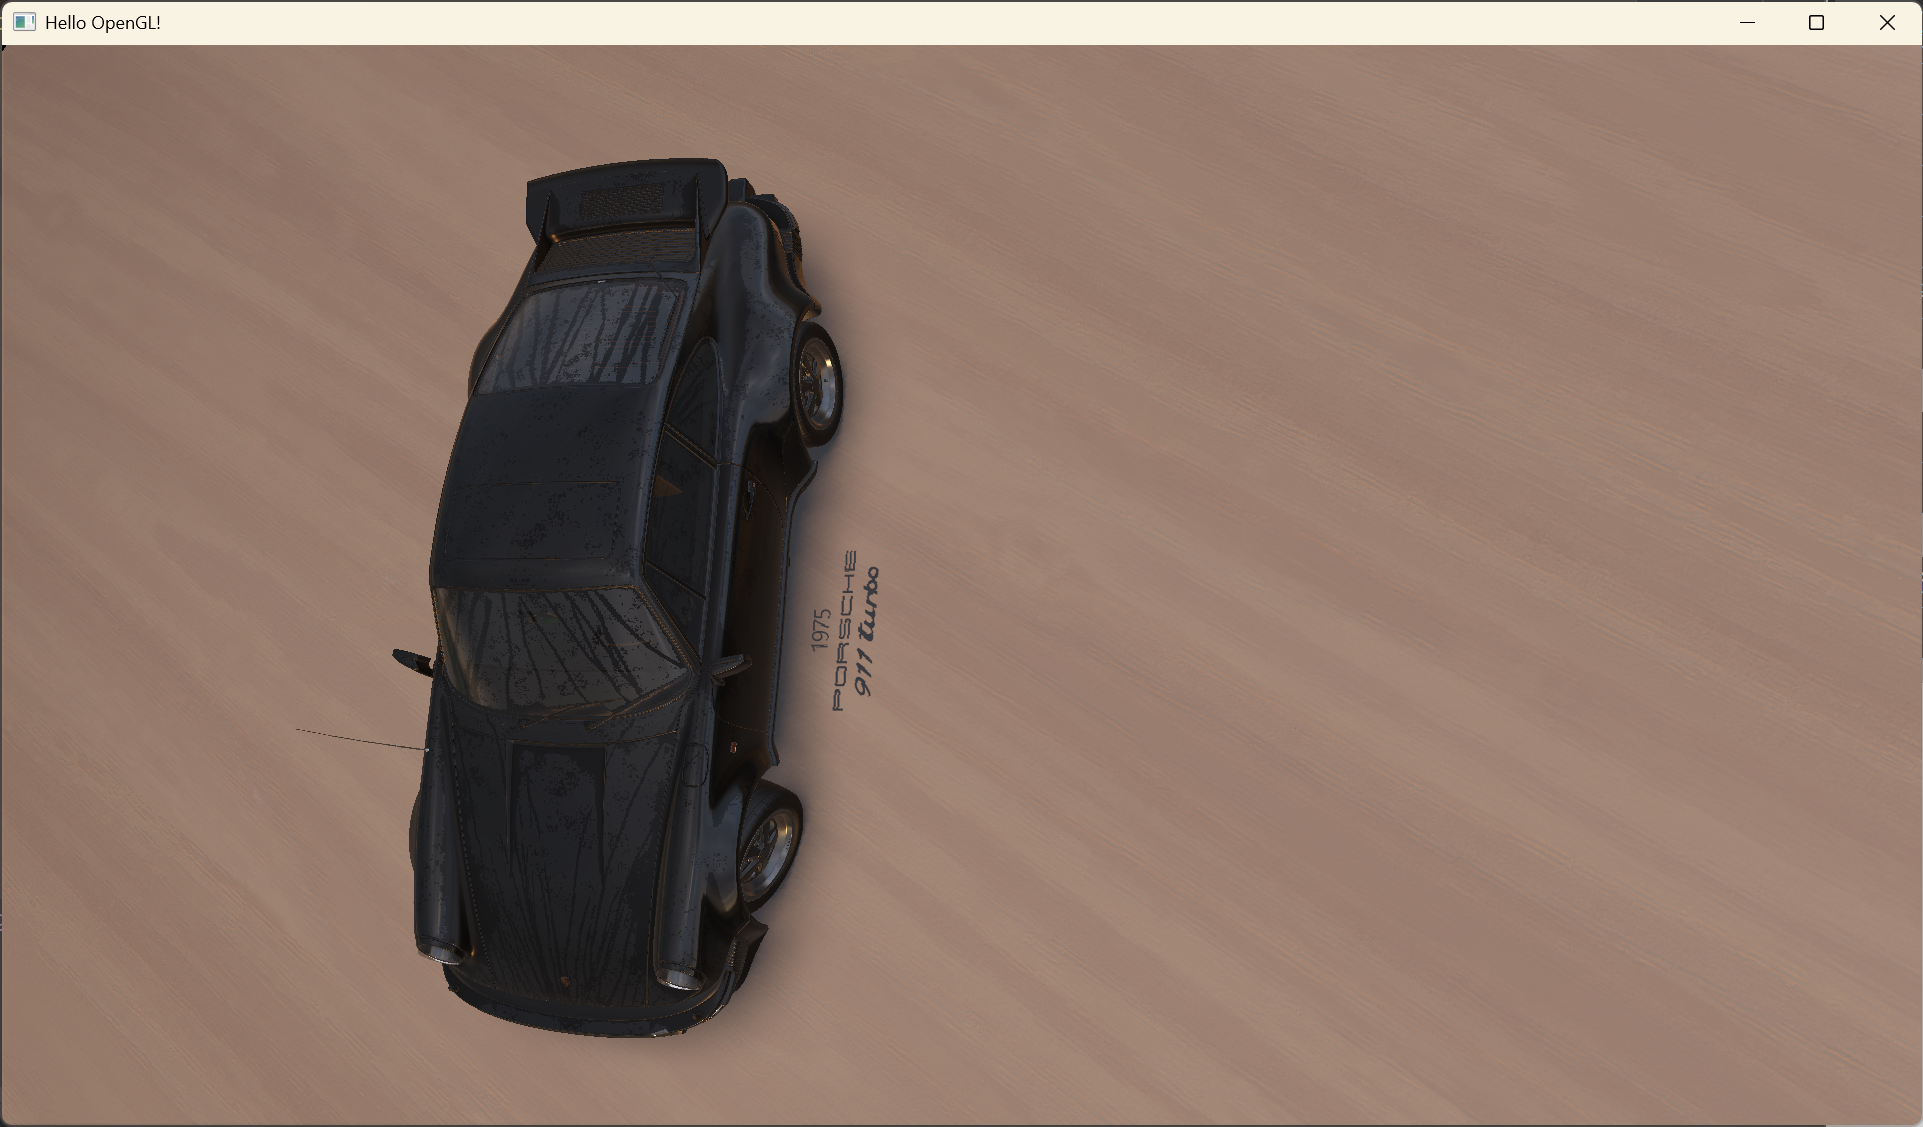
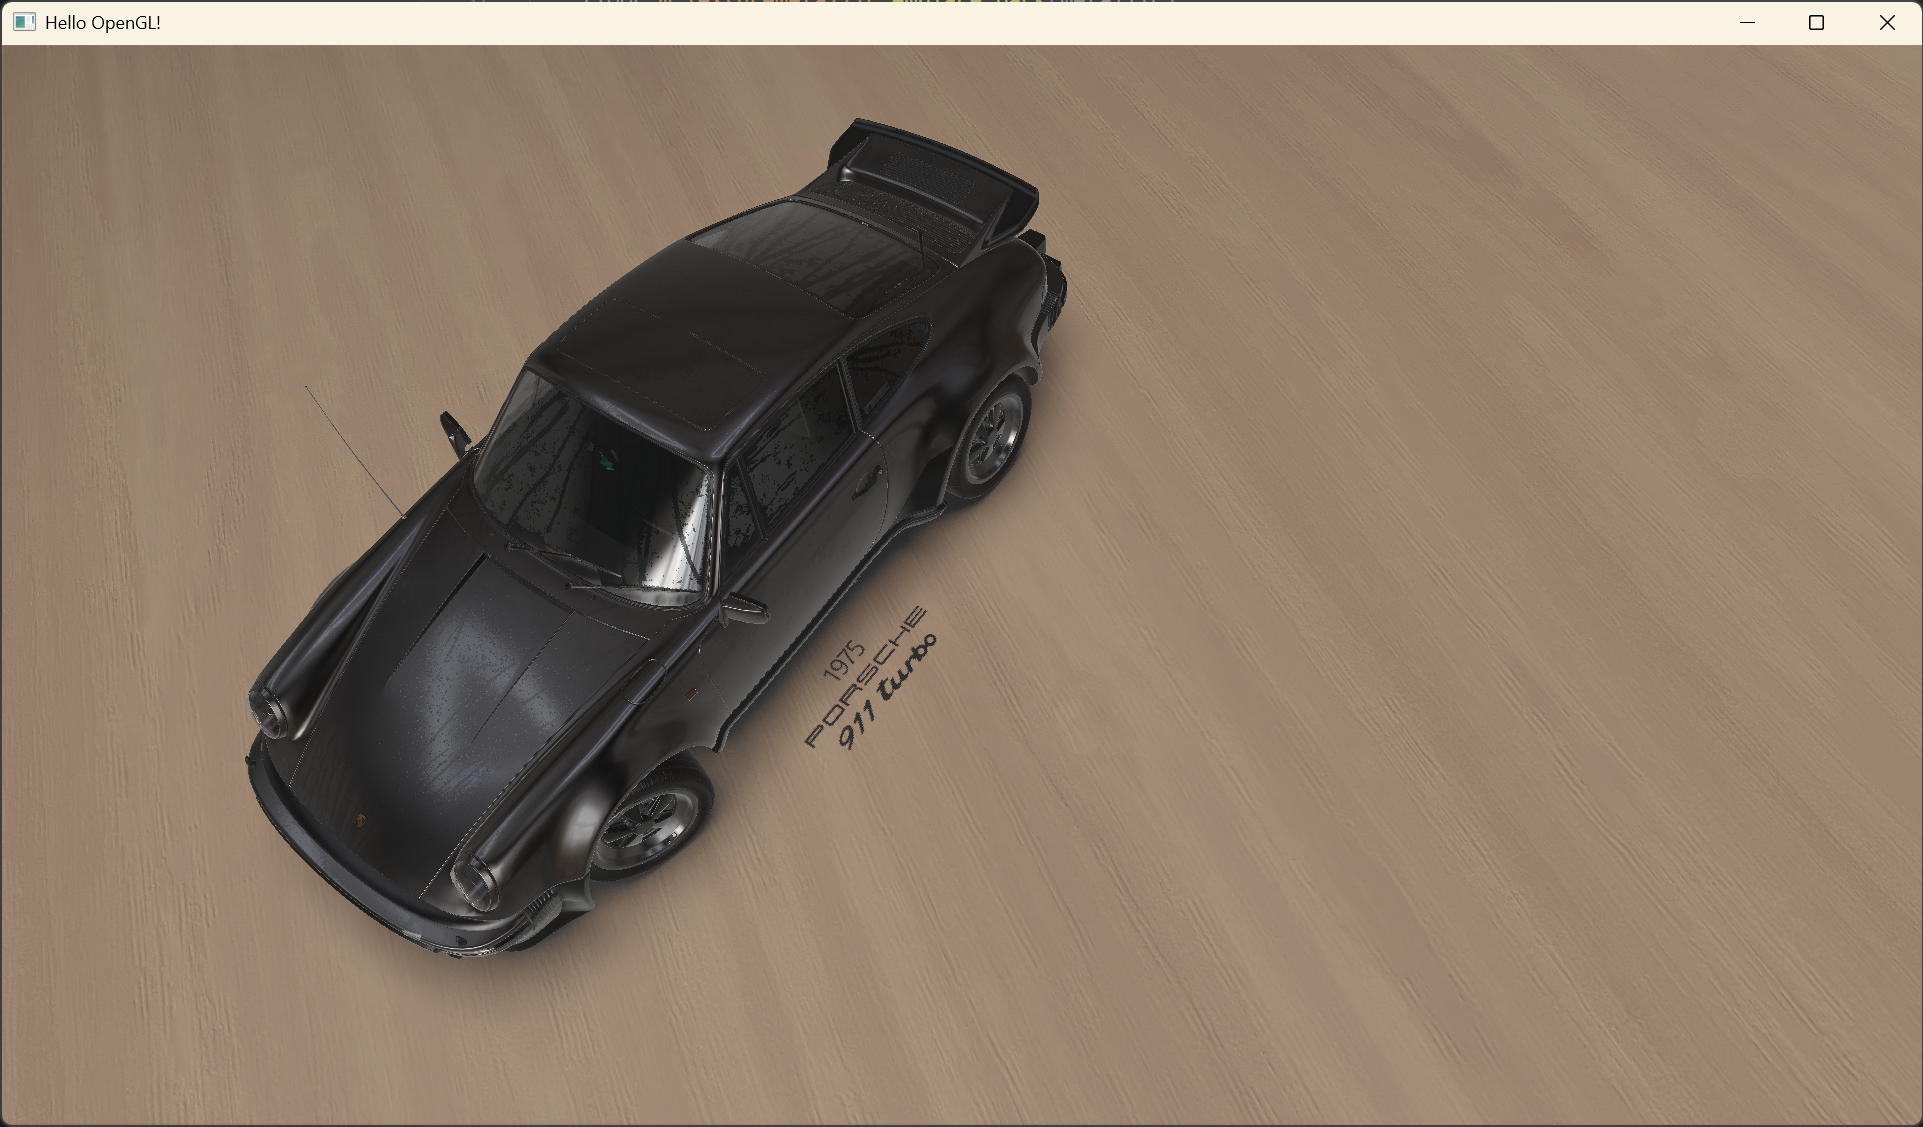
1. Fix bug: incorrect gamma correction. 2. Replace render result images.

diff --git a/OE_Engine/src/PBRFS.h b/OE_Engine/src/PBRFS.h
@@ -286,7 +286,7 @@ LightCombination calcSpotLight(vec3 albedo, float metallic, float roughness, vec
 }
 
 void main() {
-    vec4 albedoTex = texture(u_Material.albedo, v_TexCoord) * u_Material.albedoFactor;
+    vec4 albedoTex = vec4(pow(texture(u_Material.albedo, v_TexCoord).rgb, vec3(2.2)), texture(u_Material.albedo, v_TexCoord).a) * u_Material.albedoFactor;
     vec3 albedo = albedoTex.rgb;
     float alpha = albedoTex.a;
 
@@ -294,7 +294,7 @@ void main() {
     float roughness = (u_UseMRA ? texture(u_Material.roughness, v_TexCoord).g: texture(u_Material.roughness, v_TexCoord).r) * u_Material.roughnessFactor;
     float ao = texture(u_Material.AO, v_TexCoord).r;
     float transmission = texture(u_Material.transmission, v_TexCoord).r * u_Material.transmissionFactor;
-    vec3 emissive = texture(u_Material.emissive, v_TexCoord).rgb;
+    vec3 emissive = pow(texture(u_Material.emissive, v_TexCoord).rgb, vec3(2.2));
     
     LightCombination directionLight;
     LightCombination pointLight;
@@ -309,9 +309,7 @@ void main() {
     spotLight.diffuse = vec3(0.0);
     spotLight.specular = vec3(0.0);
 
-    // gamma correction
-    albedo = pow(albedo, vec3(2.2));
-    emissive = pow(emissive, vec3(2.2));
+    // gamma correction (moved to texture sampling)
 
     vec3 specularLight = vec3(0.0);
     vec3 diffuseLight = vec3(0.0);

diff --git a/OE_Engine/src/PBRFSDR.h b/OE_Engine/src/PBRFSDR.h
@@ -68,8 +68,8 @@ void main()
     //normalVec = normalize(v_N);
 
     gN = normalVec * 0.5 + 0.5;
-    gAlbedo = vec4(texture(u_Material.albedo, v_TexCoord).rgb, 1.0) * u_Material.albedoFactor;
-    gEmissive = vec4(texture(u_Material.emissive, v_TexCoord).rgb, 1.0);
+    gAlbedo = vec4(pow(texture(u_Material.albedo, v_TexCoord).rgb, vec3(2.2)), 1.0) * u_Material.albedoFactor;
+    gEmissive = vec4(pow(texture(u_Material.emissive, v_TexCoord).rgb, vec3(2.2)), 1.0);
     gMetallicRoughnessAO = u_UseMRA ? 
                            vec4(texture(u_Material.metallic, v_TexCoord).b * u_Material.metallicFactor, texture(u_Material.roughness, v_TexCoord).g * u_Material.roughnessFactor, texture(u_Material.AO, v_TexCoord).r, 1.0) 
                            : vec4(texture(u_Material.metallic, v_TexCoord).r * u_Material.metallicFactor, texture(u_Material.roughness, v_TexCoord).r * u_Material.roughnessFactor, texture(u_Material.AO, v_TexCoord).r, 1.0);
@@ -350,9 +350,6 @@ void main()
     vec3 albedo = texture(u_AlbedoMap, v_TexCoord).rgb;
     vec3 emissive = texture(u_EmissiveMap, v_TexCoord).rgb;
     vec3 light = vec3(0.0, 0.0, 0.0);
-
-    albedo = pow(albedo, vec3(2.2));
-    emissive = pow(emissive, vec3(2.2));
     
     float metallic = texture(u_MetallicRoughnessAOMap, v_TexCoord).r;
     float roughness = texture(u_MetallicRoughnessAOMap, v_TexCoord).g;